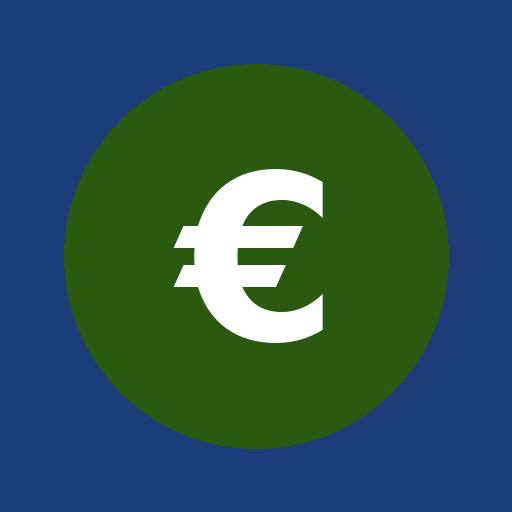
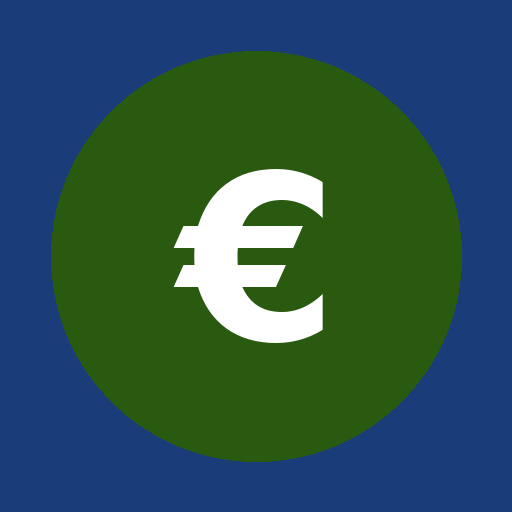
Add files via upload

Changed region(s): [[0.0938, 0.0938, 0.9062, 0.9062]]

diff --git a/sw.js b/sw.js
@@ -1,30 +1,45 @@
-const CACHE = 'famiglia-budget-v1';
-const FILES = [
-  '/famiglia-budget/',
-  '/famiglia-budget/index.html',
-  '/famiglia-budget/manifest.json',
-  '/famiglia-budget/icon-192.png',
-  '/famiglia-budget/icon-512.png'
+const CACHE_NAME = 'famiglia-budget-v3';
+const BASE = '/famiglia-budget';
+const ASSETS = [
+  BASE + '/index.html',
+  BASE + '/manifest.json',
+  BASE + '/icon-192.png',
+  BASE + '/icon-512.png'
 ];
 
-self.addEventListener('install', e => {
-  e.waitUntil(
-    caches.open(CACHE).then(c => c.addAll(FILES)).catch(() => {})
+self.addEventListener('install', event => {
+  event.waitUntil(
+    caches.open(CACHE_NAME)
+      .then(cache => cache.addAll(ASSETS))
+      .catch(() => {})
   );
   self.skipWaiting();
 });
 
-self.addEventListener('activate', e => {
-  e.waitUntil(
+self.addEventListener('activate', event => {
+  event.waitUntil(
     caches.keys().then(keys =>
-      Promise.all(keys.filter(k => k !== CACHE).map(k => caches.delete(k)))
+      Promise.all(
+        keys.filter(k => k !== CACHE_NAME).map(k => caches.delete(k))
+      )
     )
   );
   self.clients.claim();
 });
 
-self.addEventListener('fetch', e => {
-  e.respondWith(
-    caches.match(e.request).then(cached => cached || fetch(e.request).catch(() => caches.match('/famiglia-budget/index.html')))
+self.addEventListener('fetch', event => {
+  // Per richieste Firebase/Google non usare cache
+  const url = event.request.url;
+  if (url.includes('firestore') || url.includes('firebase') || url.includes('gstatic') || url.includes('googleapis')) {
+    return;
+  }
+
+  event.respondWith(
+    caches.match(event.request).then(cached => {
+      if (cached) return cached;
+      return fetch(event.request).catch(() =>
+        caches.match(BASE + '/index.html')
+      );
+    })
   );
 });

diff --git a/index.html b/index.html
@@ -8,8 +8,8 @@
   <meta name="apple-mobile-web-app-status-bar-style" content="black-translucent" />
   <meta name="apple-mobile-web-app-title" content="Budget Famiglia" />
   <title>Budget Famiglia</title>
-  <link rel="manifest" href="manifest.json" />
-  <link rel="apple-touch-icon" href="icon-192.png" />
+  <link rel="manifest" href="/famiglia-budget/manifest.json" />
+  <link rel="apple-touch-icon" href="/famiglia-budget/icon-192.png" />
   <style>
     *{box-sizing:border-box;margin:0;padding:0}
     html,body{height:100%;overflow:hidden}
@@ -657,7 +657,7 @@ function doSave(){
 }
 
 if('serviceWorker' in navigator){
-  window.addEventListener('load',()=>{ navigator.serviceWorker.register('sw.js').catch(()=>{}); });
+  window.addEventListener('load',()=>{ navigator.serviceWorker.register('/famiglia-budget/sw.js', {scope: '/famiglia-budget/'}).catch(()=>{}); });
 }
 </script>
 </body>